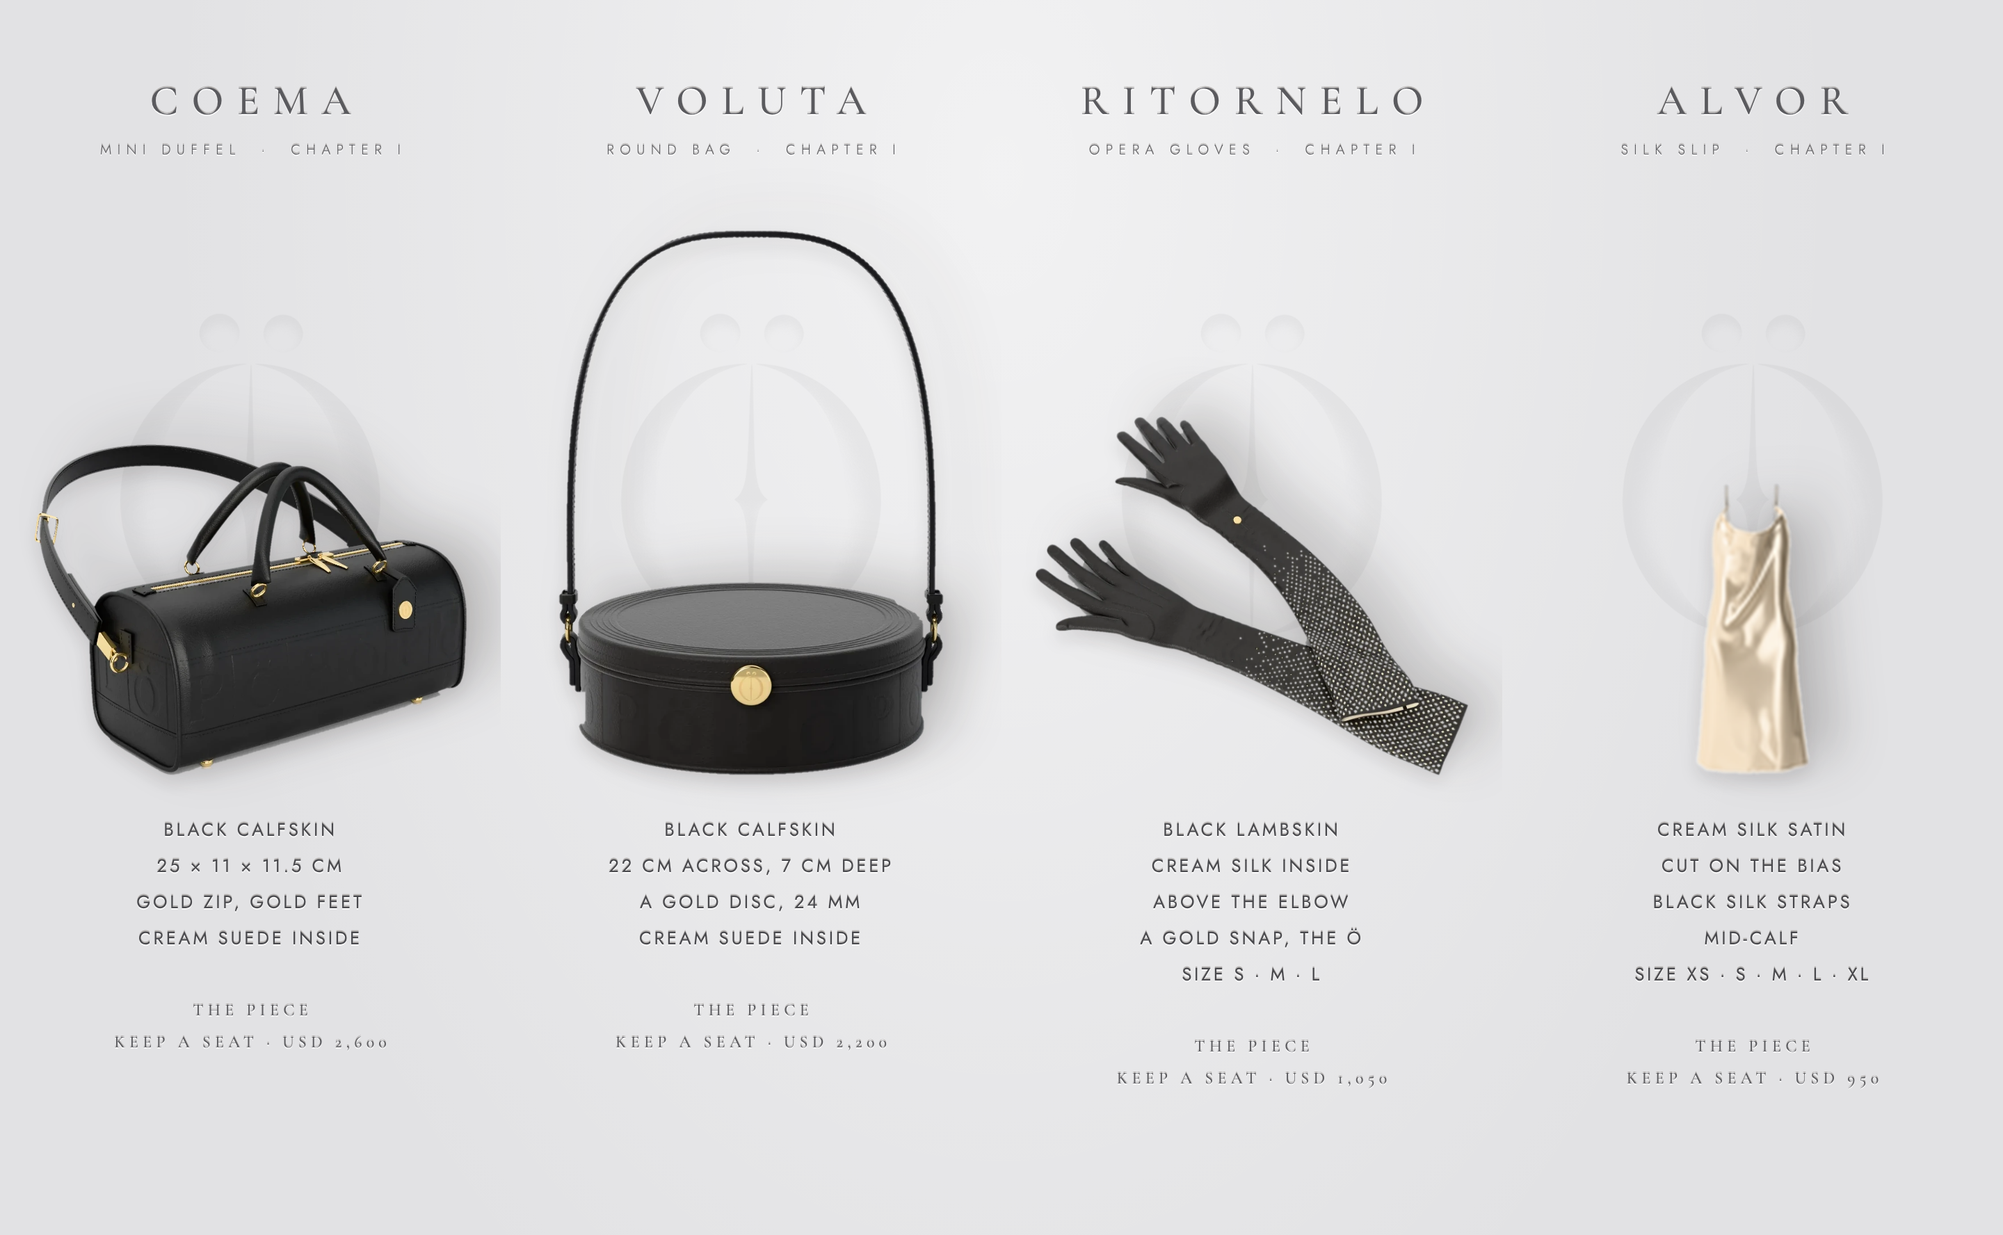
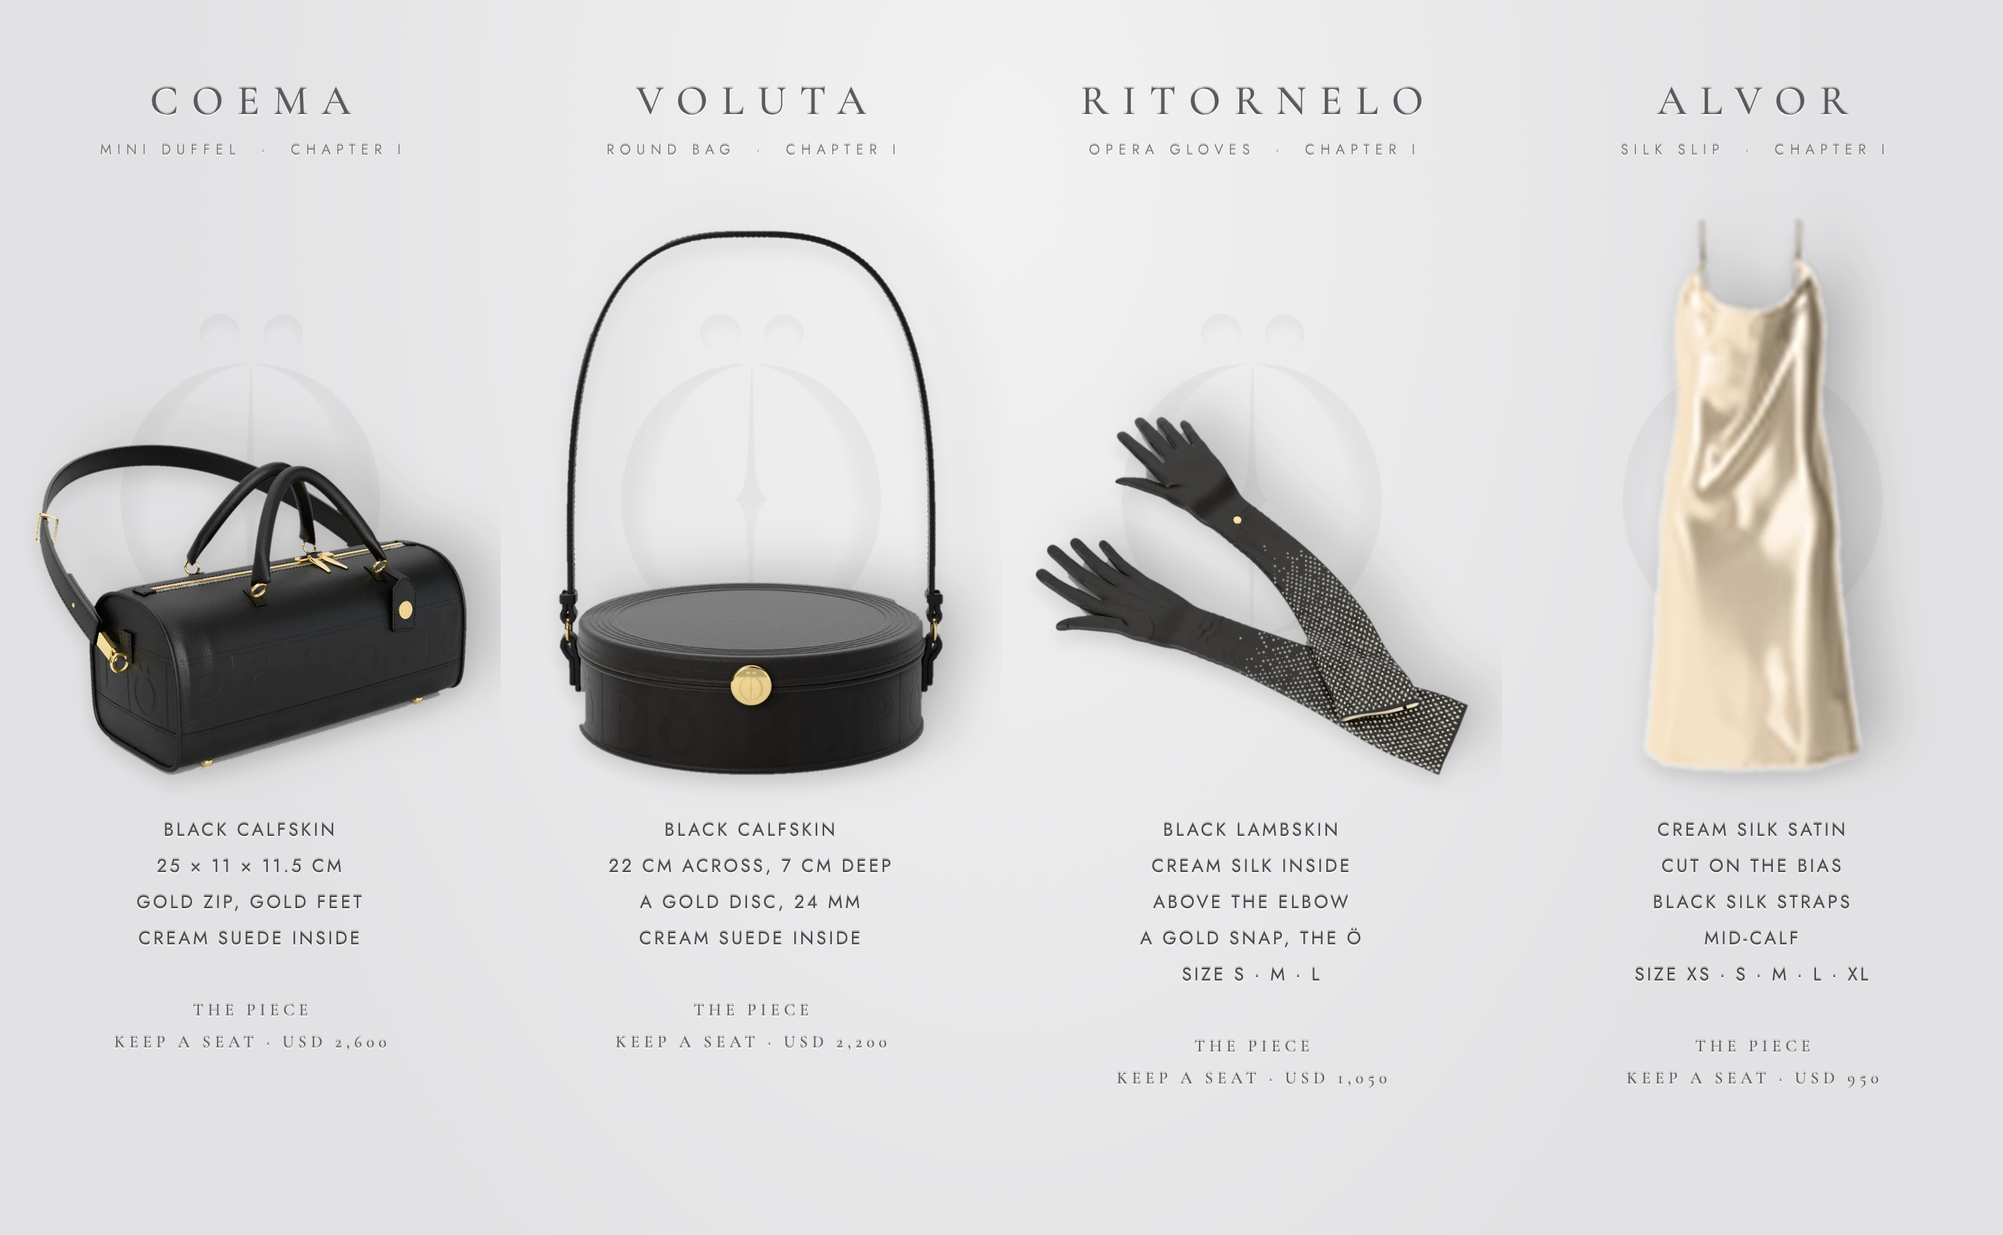
Catalogue: Alvor at full box height, the Veil Coat's size
Claude-Session: https://claude.ai/code/session_0133zY8WYR2Yz4VqDzteq4sV

Changed region(s): [[0.8125, 0.1858, 0.9375, 0.6194]]

diff --git a/chapter-1/index.html b/chapter-1/index.html
@@ -13,7 +13,7 @@
 <div class="top"></div>
 <a id="logo" href="#top" aria-label="PHAÖRA"></a>
 <nav id="sitenav"><a href="#top">The line</a><a href="/">Register</a></nav>
-<main class="cat"><article class="col" id="gelosia"><h2 class="t cut">GELOSIA</h2><p class="s cut long">BLACK LEATHER COAT &nbsp;·&nbsp; CHAPTER I</p><a class="ph" href="gelosia.html"><img src="assets/catalogue/veil_coat.webp" alt="Gelosia, black leather coat" loading="eager" decoding="async"></a><ul class="specs cut"><li>BLACK LEATHER</li><li>CREAM SILK LINING</li><li>BELTED, DOUBLE-BREASTED</li><li>MID-CALF</li><li>SIZE  XS · S · M · L · XL</li></ul><p class="links cut"><a href="gelosia.html">The piece</a><a href="/">Keep a seat · USD 5,400</a></p></article><article class="col" id="oitava"><h2 class="t cut">ÖITAVA</h2><p class="s cut">PENDANT &nbsp;·&nbsp; CHAPTER I</p><a class="ph" href="oitava.html"><img style="height:50%" src="assets/catalogue/oitava.webp" alt="Öitava, pendant" loading="eager" decoding="async"></a><ul class="specs cut"><li>SOLID 18K YELLOW GOLD</li><li>30.0 × 23.9 MM</li><li>FINE 18K CABLE CHAIN</li></ul><p class="links cut"><a href="oitava.html">The piece</a><a href="/">Keep a seat · USD 3,800</a></p></article><article class="col" id="odara"><h2 class="t cut">ÖDARA</h2><p class="s cut">LEATHER BOMBER &nbsp;·&nbsp; CHAPTER I</p><a class="ph" href="odara.html"><img src="assets/catalogue/muse_bomber.webp" alt="Ödara, leather bomber" loading="eager" decoding="async"></a><ul class="specs cut"><li>BLACK LAMBSKIN</li><li>CREAM SILK LINING</li><li>KNITTED JACQUARD RIB</li><li>GOLD ZIP, THE Ö PULL</li><li>SIZE  XS · S · M · L · XL</li></ul><p class="links cut"><a href="odara.html">The piece</a><a href="/">Keep a seat · USD 3,200</a></p></article><article class="col" id="itaoca"><h2 class="t cut">ITAOCA</h2><p class="s cut">TOP-HANDLE BAG &nbsp;·&nbsp; CHAPTER I</p><a class="ph" href="itaoca.html"><img src="assets/catalogue/po_tophandle.webp" alt="Itaoca, top-handle bag" loading="eager" decoding="async"></a><ul class="specs cut"><li>BLACK CALFSKIN</li><li>THE PÖ ON THE FLAP</li><li>A ROLLED HANDLE</li><li>THE HOUSE DISC, 24 MM</li><li>CREAM SUEDE INSIDE</li></ul><p class="links cut"><a href="itaoca.html">The piece</a><a href="/">Keep a seat · USD 2,900</a></p></article><article class="col" id="coema"><h2 class="t cut">COEMA</h2><p class="s cut">MINI DUFFEL &nbsp;·&nbsp; CHAPTER I</p><a class="ph wide" href="coema.html"><img src="assets/catalogue/matinee.webp" alt="Coema, mini duffel" loading="eager" decoding="async"></a><ul class="specs cut"><li>BLACK CALFSKIN</li><li>25 × 11 × 11.5 CM</li><li>GOLD ZIP, GOLD FEET</li><li>CREAM SUEDE INSIDE</li></ul><p class="links cut"><a href="coema.html">The piece</a><a href="/">Keep a seat · USD 2,600</a></p></article><article class="col" id="voluta"><h2 class="t cut">VOLUTA</h2><p class="s cut">ROUND BAG &nbsp;·&nbsp; CHAPTER I</p><a class="ph" href="voluta.html"><img src="assets/catalogue/the_reel.webp" alt="Voluta, round bag" loading="eager" decoding="async"></a><ul class="specs cut"><li>BLACK CALFSKIN</li><li>22 CM ACROSS, 7 CM DEEP</li><li>A GOLD DISC, 24 MM</li><li>CREAM SUEDE INSIDE</li></ul><p class="links cut"><a href="voluta.html">The piece</a><a href="/">Keep a seat · USD 2,200</a></p></article><article class="col" id="ritornelo"><h2 class="t cut">RITORNELO</h2><p class="s cut">OPERA GLOVES &nbsp;·&nbsp; CHAPTER I</p><a class="ph wide" href="ritornelo.html"><img src="assets/catalogue/opera_gloves.webp" alt="Ritornelo, opera gloves" loading="eager" decoding="async"></a><ul class="specs cut"><li>BLACK LAMBSKIN</li><li>CREAM SILK INSIDE</li><li>ABOVE THE ELBOW</li><li>A GOLD SNAP, THE Ö</li><li>SIZE  S · M · L</li></ul><p class="links cut"><a href="ritornelo.html">The piece</a><a href="/">Keep a seat · USD 1,050</a></p></article><article class="col" id="alvor"><h2 class="t cut">ALVOR</h2><p class="s cut">SILK SLIP &nbsp;·&nbsp; CHAPTER I</p><a class="ph" href="alvor.html"><img style="height:211px" src="assets/catalogue/silk_slip_144.webp" alt="Alvor, silk slip" loading="eager" decoding="async"></a><ul class="specs cut"><li>CREAM SILK SATIN</li><li>CUT ON THE BIAS</li><li>BLACK SILK STRAPS</li><li>MID-CALF</li><li>SIZE  XS · S · M · L · XL</li></ul><p class="links cut"><a href="alvor.html">The piece</a><a href="/">Keep a seat · USD 950</a></p></article><article class="col" id="cantilena"><h2 class="t cut">CANTILENA</h2><p class="s cut long">MONOGRAM KNIT HOODIE &nbsp;·&nbsp; CHAPTER I</p><a class="ph" href="cantilena.html"><img src="assets/catalogue/cantilena.webp" alt="Cantilena, monogram knit hoodie" loading="eager" decoding="async"></a><ul class="specs cut"><li>28-GAUGE DOUBLE JACQUARD</li><li>THE PÖ CHECKER</li><li>30S COMBED COTTON</li><li>CREAM / BLACK AND CREAM</li><li>SIZE  S · M · L · XL · XXL</li></ul><p class="links cut"><a href="cantilena.html">The piece</a><a href="/">Keep a seat · USD 595</a></p></article><article class="col" id="coaraci"><h2 class="t cut">COARACI</h2><p class="s cut">BELT &nbsp;·&nbsp; CHAPTER I</p><a class="ph" href="coaraci.html"><img src="assets/catalogue/disc_belt_zoom.webp" alt="Coaraci, belt" loading="eager" decoding="async"></a><ul class="specs cut"><li>BLACK CALFSKIN, 3 CM</li><li>A GOLD DISC, 40 MM</li><li>THE Ö ENGRAVED</li></ul><p class="links cut"><a href="coaraci.html">The piece</a><a href="/">Keep a seat · USD 550</a></p></article><article class="col" id="ofusca"><h2 class="t cut">ÖFUSCA</h2><p class="s cut">SUNGLASSES &nbsp;·&nbsp; CHAPTER I</p><a class="ph two" href="ofusca.html"><img class="a" src="assets/catalogue/sunglasses.webp" alt="Öfusca, sunglasses" loading="eager" decoding="async"><img class="b" src="assets/catalogue/sunglasses_side.webp" alt="" loading="eager" decoding="async"></a><ul class="specs cut"><li>GLOSSY BLACK ACETATE</li><li>CAT-EYE, GRADIENT LENSES</li><li>GOLD PLATES, THE Ö</li><li>BLACK LEATHER CASE</li></ul><p class="links cut"><a href="ofusca.html">The piece</a><a href="/">Keep a seat · USD 495</a></p></article><article class="col" id="heliodora"><h2 class="t cut">HELIODORA</h2><p class="s cut">KNIT HOODIE &nbsp;·&nbsp; CHAPTER I</p><a class="ph" href="heliodora.html"><img src="assets/catalogue/muse_allover.webp" alt="Heliodora, knit hoodie" loading="eager" decoding="async"></a><ul class="specs cut"><li>28-GAUGE DOUBLE JACQUARD</li><li>300 GSM</li><li>30S COMBED COTTON</li><li>BLACK / CREAM</li><li>SIZE  S · M · L · XL · XXL</li></ul><p class="links cut"><a href="heliodora.html">The piece</a><a href="/">Keep a seat · USD 400</a></p></article><article class="col" id="cordel"><h2 class="t cut">CORDEL</h2><p class="s cut">SILK SCARF &nbsp;·&nbsp; CHAPTER I</p><a class="ph wide" href="cordel.html"><img src="assets/catalogue/silk_scarf.webp" alt="Cordel, silk scarf" loading="eager" decoding="async"></a><ul class="specs cut"><li>SILK TWILL</li><li>90 × 90 CM</li><li>BLACK / CREAM</li></ul><p class="links cut"><a href="cordel.html">The piece</a><a href="/">Keep a seat · USD 395</a></p></article><article class="col" id="obolo"><h2 class="t cut">ÖBOLO</h2><p class="s cut">CARD HOLDER &nbsp;·&nbsp; CHAPTER I</p><a class="ph two" href="obolo.html"><img class="a" src="assets/catalogue/card_holder.webp" alt="Öbolo, card holder" loading="eager" decoding="async"><img class="b" src="assets/catalogue/card_holder_back.webp" alt="" loading="eager" decoding="async"></a><ul class="specs cut"><li>BLACK CALFSKIN</li><li>FINE MATTE PEBBLE</li><li>THREE SLOTS A SIDE</li><li>A GOLD DISC, THE Ö</li></ul><p class="links cut"><a href="obolo.html">The piece</a><a href="/">Keep a seat · USD 295</a></p></article><article class="col" id="lustre"><h2 class="t cut">LUSTRE</h2><p class="s cut">NECKLACE &nbsp;·&nbsp; CHAPTER I</p><a class="ph" href="lustre.html"><img src="assets/catalogue/lustre.webp" alt="Lustre, necklace" loading="eager" decoding="async"></a><ul class="specs cut"><li>FACETED ROCK CRYSTAL, 37</li><li>18K GOLD, POLISHED</li><li>A 20.8 MM DISC, THE Ö</li><li>A LAB DIAMOND</li><li>ABOUT 420 MM</li></ul><p class="links cut"><a href="lustre.html">The piece</a></p></article></main>
+<main class="cat"><article class="col" id="gelosia"><h2 class="t cut">GELOSIA</h2><p class="s cut long">BLACK LEATHER COAT &nbsp;·&nbsp; CHAPTER I</p><a class="ph" href="gelosia.html"><img src="assets/catalogue/veil_coat.webp" alt="Gelosia, black leather coat" loading="eager" decoding="async"></a><ul class="specs cut"><li>BLACK LEATHER</li><li>CREAM SILK LINING</li><li>BELTED, DOUBLE-BREASTED</li><li>MID-CALF</li><li>SIZE  XS · S · M · L · XL</li></ul><p class="links cut"><a href="gelosia.html">The piece</a><a href="/">Keep a seat · USD 5,400</a></p></article><article class="col" id="oitava"><h2 class="t cut">ÖITAVA</h2><p class="s cut">PENDANT &nbsp;·&nbsp; CHAPTER I</p><a class="ph" href="oitava.html"><img style="height:50%" src="assets/catalogue/oitava.webp" alt="Öitava, pendant" loading="eager" decoding="async"></a><ul class="specs cut"><li>SOLID 18K YELLOW GOLD</li><li>30.0 × 23.9 MM</li><li>FINE 18K CABLE CHAIN</li></ul><p class="links cut"><a href="oitava.html">The piece</a><a href="/">Keep a seat · USD 3,800</a></p></article><article class="col" id="odara"><h2 class="t cut">ÖDARA</h2><p class="s cut">LEATHER BOMBER &nbsp;·&nbsp; CHAPTER I</p><a class="ph" href="odara.html"><img src="assets/catalogue/muse_bomber.webp" alt="Ödara, leather bomber" loading="eager" decoding="async"></a><ul class="specs cut"><li>BLACK LAMBSKIN</li><li>CREAM SILK LINING</li><li>KNITTED JACQUARD RIB</li><li>GOLD ZIP, THE Ö PULL</li><li>SIZE  XS · S · M · L · XL</li></ul><p class="links cut"><a href="odara.html">The piece</a><a href="/">Keep a seat · USD 3,200</a></p></article><article class="col" id="itaoca"><h2 class="t cut">ITAOCA</h2><p class="s cut">TOP-HANDLE BAG &nbsp;·&nbsp; CHAPTER I</p><a class="ph" href="itaoca.html"><img src="assets/catalogue/po_tophandle.webp" alt="Itaoca, top-handle bag" loading="eager" decoding="async"></a><ul class="specs cut"><li>BLACK CALFSKIN</li><li>THE PÖ ON THE FLAP</li><li>A ROLLED HANDLE</li><li>THE HOUSE DISC, 24 MM</li><li>CREAM SUEDE INSIDE</li></ul><p class="links cut"><a href="itaoca.html">The piece</a><a href="/">Keep a seat · USD 2,900</a></p></article><article class="col" id="coema"><h2 class="t cut">COEMA</h2><p class="s cut">MINI DUFFEL &nbsp;·&nbsp; CHAPTER I</p><a class="ph wide" href="coema.html"><img src="assets/catalogue/matinee.webp" alt="Coema, mini duffel" loading="eager" decoding="async"></a><ul class="specs cut"><li>BLACK CALFSKIN</li><li>25 × 11 × 11.5 CM</li><li>GOLD ZIP, GOLD FEET</li><li>CREAM SUEDE INSIDE</li></ul><p class="links cut"><a href="coema.html">The piece</a><a href="/">Keep a seat · USD 2,600</a></p></article><article class="col" id="voluta"><h2 class="t cut">VOLUTA</h2><p class="s cut">ROUND BAG &nbsp;·&nbsp; CHAPTER I</p><a class="ph" href="voluta.html"><img src="assets/catalogue/the_reel.webp" alt="Voluta, round bag" loading="eager" decoding="async"></a><ul class="specs cut"><li>BLACK CALFSKIN</li><li>22 CM ACROSS, 7 CM DEEP</li><li>A GOLD DISC, 24 MM</li><li>CREAM SUEDE INSIDE</li></ul><p class="links cut"><a href="voluta.html">The piece</a><a href="/">Keep a seat · USD 2,200</a></p></article><article class="col" id="ritornelo"><h2 class="t cut">RITORNELO</h2><p class="s cut">OPERA GLOVES &nbsp;·&nbsp; CHAPTER I</p><a class="ph wide" href="ritornelo.html"><img src="assets/catalogue/opera_gloves.webp" alt="Ritornelo, opera gloves" loading="eager" decoding="async"></a><ul class="specs cut"><li>BLACK LAMBSKIN</li><li>CREAM SILK INSIDE</li><li>ABOVE THE ELBOW</li><li>A GOLD SNAP, THE Ö</li><li>SIZE  S · M · L</li></ul><p class="links cut"><a href="ritornelo.html">The piece</a><a href="/">Keep a seat · USD 1,050</a></p></article><article class="col" id="alvor"><h2 class="t cut">ALVOR</h2><p class="s cut">SILK SLIP &nbsp;·&nbsp; CHAPTER I</p><a class="ph" href="alvor.html"><img src="assets/catalogue/silk_slip_144.webp" alt="Alvor, silk slip" loading="eager" decoding="async"></a><ul class="specs cut"><li>CREAM SILK SATIN</li><li>CUT ON THE BIAS</li><li>BLACK SILK STRAPS</li><li>MID-CALF</li><li>SIZE  XS · S · M · L · XL</li></ul><p class="links cut"><a href="alvor.html">The piece</a><a href="/">Keep a seat · USD 950</a></p></article><article class="col" id="cantilena"><h2 class="t cut">CANTILENA</h2><p class="s cut long">MONOGRAM KNIT HOODIE &nbsp;·&nbsp; CHAPTER I</p><a class="ph" href="cantilena.html"><img src="assets/catalogue/cantilena.webp" alt="Cantilena, monogram knit hoodie" loading="eager" decoding="async"></a><ul class="specs cut"><li>28-GAUGE DOUBLE JACQUARD</li><li>THE PÖ CHECKER</li><li>30S COMBED COTTON</li><li>CREAM / BLACK AND CREAM</li><li>SIZE  S · M · L · XL · XXL</li></ul><p class="links cut"><a href="cantilena.html">The piece</a><a href="/">Keep a seat · USD 595</a></p></article><article class="col" id="coaraci"><h2 class="t cut">COARACI</h2><p class="s cut">BELT &nbsp;·&nbsp; CHAPTER I</p><a class="ph" href="coaraci.html"><img src="assets/catalogue/disc_belt_zoom.webp" alt="Coaraci, belt" loading="eager" decoding="async"></a><ul class="specs cut"><li>BLACK CALFSKIN, 3 CM</li><li>A GOLD DISC, 40 MM</li><li>THE Ö ENGRAVED</li></ul><p class="links cut"><a href="coaraci.html">The piece</a><a href="/">Keep a seat · USD 550</a></p></article><article class="col" id="ofusca"><h2 class="t cut">ÖFUSCA</h2><p class="s cut">SUNGLASSES &nbsp;·&nbsp; CHAPTER I</p><a class="ph two" href="ofusca.html"><img class="a" src="assets/catalogue/sunglasses.webp" alt="Öfusca, sunglasses" loading="eager" decoding="async"><img class="b" src="assets/catalogue/sunglasses_side.webp" alt="" loading="eager" decoding="async"></a><ul class="specs cut"><li>GLOSSY BLACK ACETATE</li><li>CAT-EYE, GRADIENT LENSES</li><li>GOLD PLATES, THE Ö</li><li>BLACK LEATHER CASE</li></ul><p class="links cut"><a href="ofusca.html">The piece</a><a href="/">Keep a seat · USD 495</a></p></article><article class="col" id="heliodora"><h2 class="t cut">HELIODORA</h2><p class="s cut">KNIT HOODIE &nbsp;·&nbsp; CHAPTER I</p><a class="ph" href="heliodora.html"><img src="assets/catalogue/muse_allover.webp" alt="Heliodora, knit hoodie" loading="eager" decoding="async"></a><ul class="specs cut"><li>28-GAUGE DOUBLE JACQUARD</li><li>300 GSM</li><li>30S COMBED COTTON</li><li>BLACK / CREAM</li><li>SIZE  S · M · L · XL · XXL</li></ul><p class="links cut"><a href="heliodora.html">The piece</a><a href="/">Keep a seat · USD 400</a></p></article><article class="col" id="cordel"><h2 class="t cut">CORDEL</h2><p class="s cut">SILK SCARF &nbsp;·&nbsp; CHAPTER I</p><a class="ph wide" href="cordel.html"><img src="assets/catalogue/silk_scarf.webp" alt="Cordel, silk scarf" loading="eager" decoding="async"></a><ul class="specs cut"><li>SILK TWILL</li><li>90 × 90 CM</li><li>BLACK / CREAM</li></ul><p class="links cut"><a href="cordel.html">The piece</a><a href="/">Keep a seat · USD 395</a></p></article><article class="col" id="obolo"><h2 class="t cut">ÖBOLO</h2><p class="s cut">CARD HOLDER &nbsp;·&nbsp; CHAPTER I</p><a class="ph two" href="obolo.html"><img class="a" src="assets/catalogue/card_holder.webp" alt="Öbolo, card holder" loading="eager" decoding="async"><img class="b" src="assets/catalogue/card_holder_back.webp" alt="" loading="eager" decoding="async"></a><ul class="specs cut"><li>BLACK CALFSKIN</li><li>FINE MATTE PEBBLE</li><li>THREE SLOTS A SIDE</li><li>A GOLD DISC, THE Ö</li></ul><p class="links cut"><a href="obolo.html">The piece</a><a href="/">Keep a seat · USD 295</a></p></article><article class="col" id="lustre"><h2 class="t cut">LUSTRE</h2><p class="s cut">NECKLACE &nbsp;·&nbsp; CHAPTER I</p><a class="ph" href="lustre.html"><img src="assets/catalogue/lustre.webp" alt="Lustre, necklace" loading="eager" decoding="async"></a><ul class="specs cut"><li>FACETED ROCK CRYSTAL, 37</li><li>18K GOLD, POLISHED</li><li>A 20.8 MM DISC, THE Ö</li><li>A LAB DIAMOND</li><li>ABOUT 420 MM</li></ul><p class="links cut"><a href="lustre.html">The piece</a></p></article></main>
 <script>
 // David's lettering with the solo Ö, inlined in the room's dark ink, as room.js does (never typed)
 fetch('assets/lettering-solo-offwhite.svg').then(r => r.text()).then(t => { document.getElementById('logo').innerHTML =

diff --git a/chapter-1/build.py b/chapter-1/build.py
@@ -641,7 +641,7 @@ def catalogue_home():
                     f'<img class="b" src="{duo[q["id"]][1]}" alt="{E(q["name"])}: the gold disc" loading="eager" decoding="async"></a>' if q['id'] in duo else
                     f'<a class="ph two" href="{q["page"]}.html"><img class="a" src="{imgs[q["id"]][0]}" alt="{E(q["name"])}, {E(q["plain"].lower())}" loading="eager" decoding="async">'
                     f'<img class="b" src="{imgs[q["id"]][1]}" alt="" loading="eager" decoding="async"></a>' if imgs[q['id']][1] else
-                    f'<a class="ph{" wide" if Image.open(HERE / imgs[q["id"]][0]).width > 1.15 * Image.open(HERE / imgs[q["id"]][0]).height else ""}" href="{q["page"]}.html"><img{f' style="height:{C.CAT_SCALE[q["id"]] * 100:.0f}%"' if q["id"] in C.CAT_SCALE else f' style="height:{C.CAT_IMG[q["id"]][1]}px"' if q["id"] in C.CAT_IMG else ""} src="{imgs[q["id"]][0]}" alt="{E(q["name"])}, {E(q["plain"].lower())}" loading="eager" decoding="async"></a>') +
+                    f'<a class="ph{" wide" if Image.open(HERE / imgs[q["id"]][0]).width > 1.15 * Image.open(HERE / imgs[q["id"]][0]).height else ""}" href="{q["page"]}.html"><img{f' style="height:{C.CAT_SCALE[q["id"]] * 100:.0f}%"' if q["id"] in C.CAT_SCALE else f' style="height:{C.CAT_IMG[q["id"]][1]}px"' if C.CAT_IMG.get(q["id"], (0, None))[1] else ""} src="{imgs[q["id"]][0]}" alt="{E(q["name"])}, {E(q["plain"].lower())}" loading="eager" decoding="async"></a>') +
                  f'<ul class="specs cut">' + ''.join(f'<li>{E(x)}</li>' for x in specs) + f'</ul><p class="links cut">{links}</p></article>')
     doc = f'''<!doctype html>
 <html lang="en" id="top"><head><meta charset="utf-8">

diff --git a/chapter-1/content.py b/chapter-1/content.py
@@ -656,5 +656,5 @@ DETAILS480 = {
 # the catalogue: the small pieces carry two angles in their column, sharing one floor (David, 15 Nov). (second view)
 CAT_SECOND = {'disc_belt': 'straight', 'sunglasses': 'side', 'card_holder': 'back'}   # Öfusca: front and side, the gold Ö on the temple (David, 15 Nov)   # Ritornelo reads better as its pair alone
 CAT_SCALE = {'oitava': 0.5}   # the catalogue image's share of its box (David, 15 Nov, Öitava: "more delicate, smaller")
-# a catalogue image of its own, shown at a fixed height in CSS px (Alvor's new silk: 108x144 cut out, kept at 2x, no more)
-CAT_IMG = {'silk_slip': ('assets/catalogue/silk_slip_144.webp', 211)}
+# a catalogue image of its own (Alvor's new silk: 108x144 cut out at 4x), at full box height like the Veil Coat (David, 15 Nov: "Same as veil coat size pls")
+CAT_IMG = {'silk_slip': ('assets/catalogue/silk_slip_144.webp', None)}
